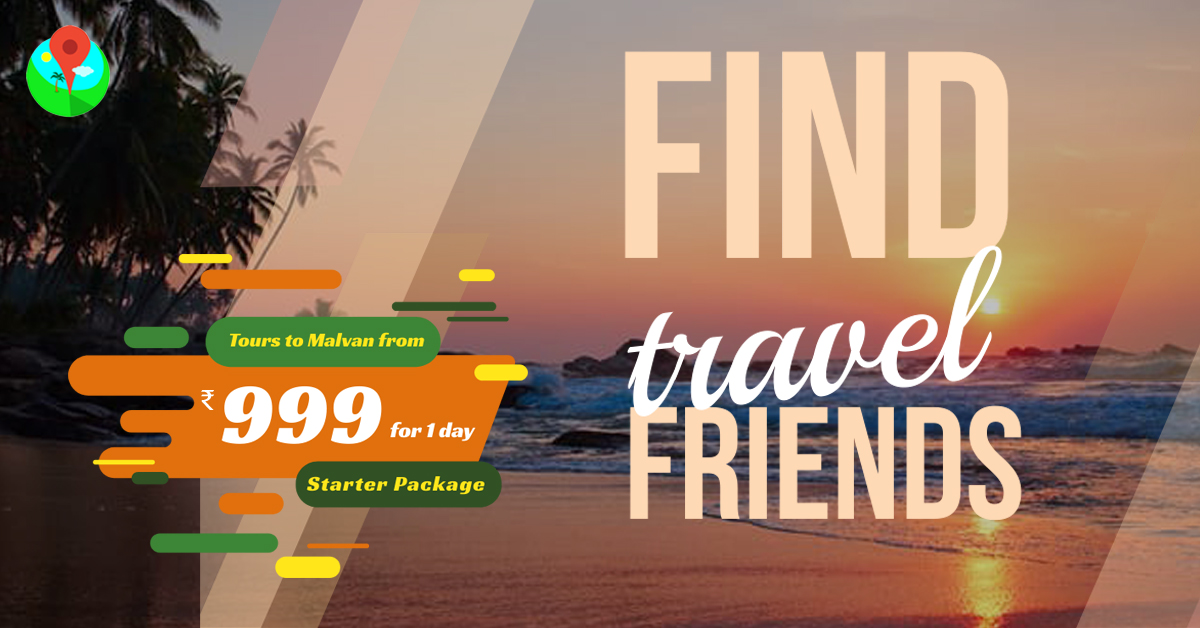
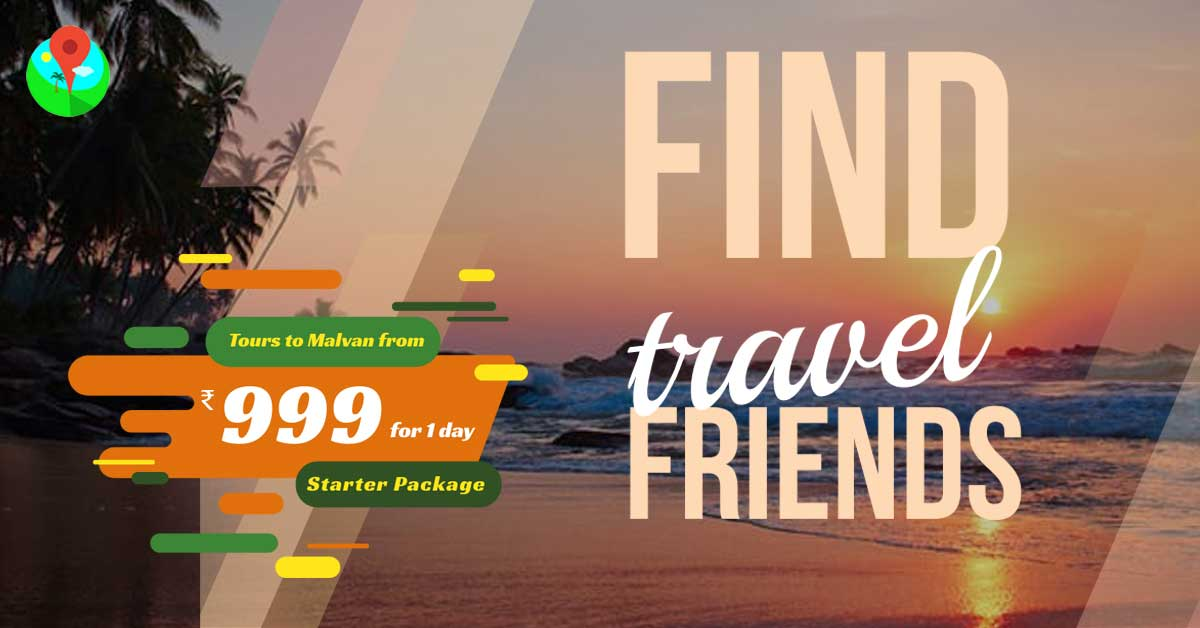
homepage changes

diff --git a/src/app/package/package.component.html b/src/app/package/package.component.html
@@ -45,31 +45,10 @@
                 aria-hidden="true"></i></span><span class="tour_rat">4.5</span> -->
         </div>
 
-        <!--====== ABOUT THE TOUR ==========-->
-        <div class="tour_head1 row">
-          <h3>About The Tour</h3>
-
-          <div *ngIf="packageActivities && packageActivities.length>0" class="col-md-4 col-sm-6">
-            <h4><img alt="Things to carry" src="assets/images/icon/a18.png">Activities</h4>
-            <ul>
-              <li *ngFor="let data of packageActivities">{{data}}</li>
-            </ul>
-          </div>
-          <div *ngIf="packageInclusions && packageInclusions.length>0"
-            [ngClass]="packageActivities.length==0?'col-md-6 col-sm-6':'col-md-4 col-sm-6'">
-            <h4><img alt="Things to carry" src="assets/images/icon/dbl1.png">Inclusions</h4>
-            <ul>
-              <li *ngFor="let data of packageInclusions">{{data}}</li>
-            </ul>
-          </div>
-          <div *ngIf="packageThingsToCarry && packageThingsToCarry.length>0"
-            [ngClass]="packageActivities.length==0?'col-md-6 col-sm-6':'col-md-4 col-sm-6'">
-            <h4><img alt="Things to carry" src="assets/images/icon/a17.png">Things to carry</h4>
-            <ul>
-              <li *ngFor="let data of packageThingsToCarry">{{data}}</li>
-            </ul>
-          </div>
-
+        <!--====== Photo Gallery ==========-->
+        <div class="tour_head1 hotel-book-room">
+          <h3>Photo Gallery</h3>
+          <ngx-gallery [options]="galleryOptions" [images]="galleryImages"></ngx-gallery>
         </div>
 
         <!--====== TOUR DESCRIPTION ==========-->
@@ -80,11 +59,7 @@
             <strong>(If required Food & Vehicle Extra Cost Will be Charged.)</strong>
           </p>
         </div>
-        <!--====== ROOMS: HOTEL BOOKING ==========-->
-        <div class="tour_head1 hotel-book-room">
-          <h3>Photo Gallery</h3>
-          <ngx-gallery [options]="galleryOptions" [images]="galleryImages"></ngx-gallery>
-        </div>
+
         <!--====== TOUR LOCATION ==========-->
         <!-- <div class="tour_head1 tout-map map-container">
 						<h3>Location</h3>
@@ -262,6 +237,33 @@
             </div>
           </div>
         </div> -->
+
+        <!--====== ABOUT THE TOUR ==========-->
+        <div class="tour_head1 row">
+          <h3>About The Tour</h3>
+
+          <div *ngIf="packageActivities && packageActivities.length>0" class="col-md-4 col-sm-6">
+            <h4><img alt="Things to carry" src="assets/images/icon/a18.png">Activities</h4>
+            <ul>
+              <li *ngFor="let data of packageActivities">{{data}}</li>
+            </ul>
+          </div>
+          <div *ngIf="packageInclusions && packageInclusions.length>0"
+            [ngClass]="packageActivities.length==0?'col-md-6 col-sm-6':'col-md-4 col-sm-6'">
+            <h4><img alt="Things to carry" src="assets/images/icon/dbl1.png">Inclusions</h4>
+            <ul>
+              <li *ngFor="let data of packageInclusions">{{data}}</li>
+            </ul>
+          </div>
+          <div *ngIf="packageThingsToCarry && packageThingsToCarry.length>0"
+            [ngClass]="packageActivities.length==0?'col-md-6 col-sm-6':'col-md-4 col-sm-6'">
+            <h4><img alt="Things to carry" src="assets/images/icon/a17.png">Things to carry</h4>
+            <ul>
+              <li *ngFor="let data of packageThingsToCarry">{{data}}</li>
+            </ul>
+          </div>
+
+        </div>
       </div>
       <div class="col-md-3 tour_r">
 

diff --git a/src/app/home/home.component.html b/src/app/home/home.component.html
@@ -1,17 +1,17 @@
 <!--HEADER SECTION-->
 <section>
-  <ngx-gallery [options]="galleryOptions" [images]="galleryImages"></ngx-gallery>
-  <!-- <div class="tourz-search">
+  <!-- <ngx-gallery [options]="galleryOptions" [images]="galleryImages"></ngx-gallery> -->
+  <div class="tourz-search">
     <div class="container">
       <div class="row">
-
-        <div class="tourz-search-1">
-          <h1>Plan Your Travel Now!</h1>
+        <a routerLink="/package/Malvan_Tarkarli_Tour_Package_1_Day">
+          <div class="tourz-search-1">
+            <!-- <h1>Plan Your Travel Now!</h1>
           <p>Experience the various exciting tour and travel packages and Make hotel reservations, find vacation
-            packages, search cheap hotels and events</p>
-       
-          <div class="tourz-hom-ser">
-            <ul>
+            packages, search cheap hotels and events</p> -->
+
+            <div class="tourz-hom-ser">
+              <!-- <ul>
               <li>
                 <a href="booking-tour-package.html"
                   class="waves-effect waves-light btn-large tourz-pop-ser-btn wow fadeInUp"
@@ -30,12 +30,13 @@
                 <a href="booking-hotel.html" class="waves-effect waves-light btn-large tourz-pop-ser-btn wow fadeInUp"
                   data-wow-duration="2s"><img src="assets/images/icon/1.png" alt=""> Hotel</a>
               </li>
-            </ul>
+            </ul> -->
+            </div>
           </div>
-        </div>
+        </a>
       </div>
     </div>
-  </div> -->
+  </div>
 </section>
 <!--END HEADER SECTION-->
 

diff --git a/src/assets/css/style.css b/src/assets/css/style.css
@@ -4774,9 +4774,10 @@ textarea {
 /* HOME PAGE SEARCH BOX 
 /*-------------------------------------------------*/
 .tourz-search {
-  background: url(../images/consul-bg-3.jpg) no-repeat;
+  background: url(../images/gallery/slide1.png) no-repeat;
   position: relative;
   background-size: cover;
+  height: 90vh;
 }
 
 .tourz-search {}

diff --git a/src/app/home/home.component.ts b/src/app/home/home.component.ts
@@ -32,7 +32,7 @@ export class HomeComponent implements OnInit {
       breakpoint: 800,
       width: '100%',
       height: '300px',
-      imagePercent: 80,
+      imagePercent: 100,
       thumbnails: false,
       imageAutoPlay: true,
       imageAutoPlayInterval: 4000,
